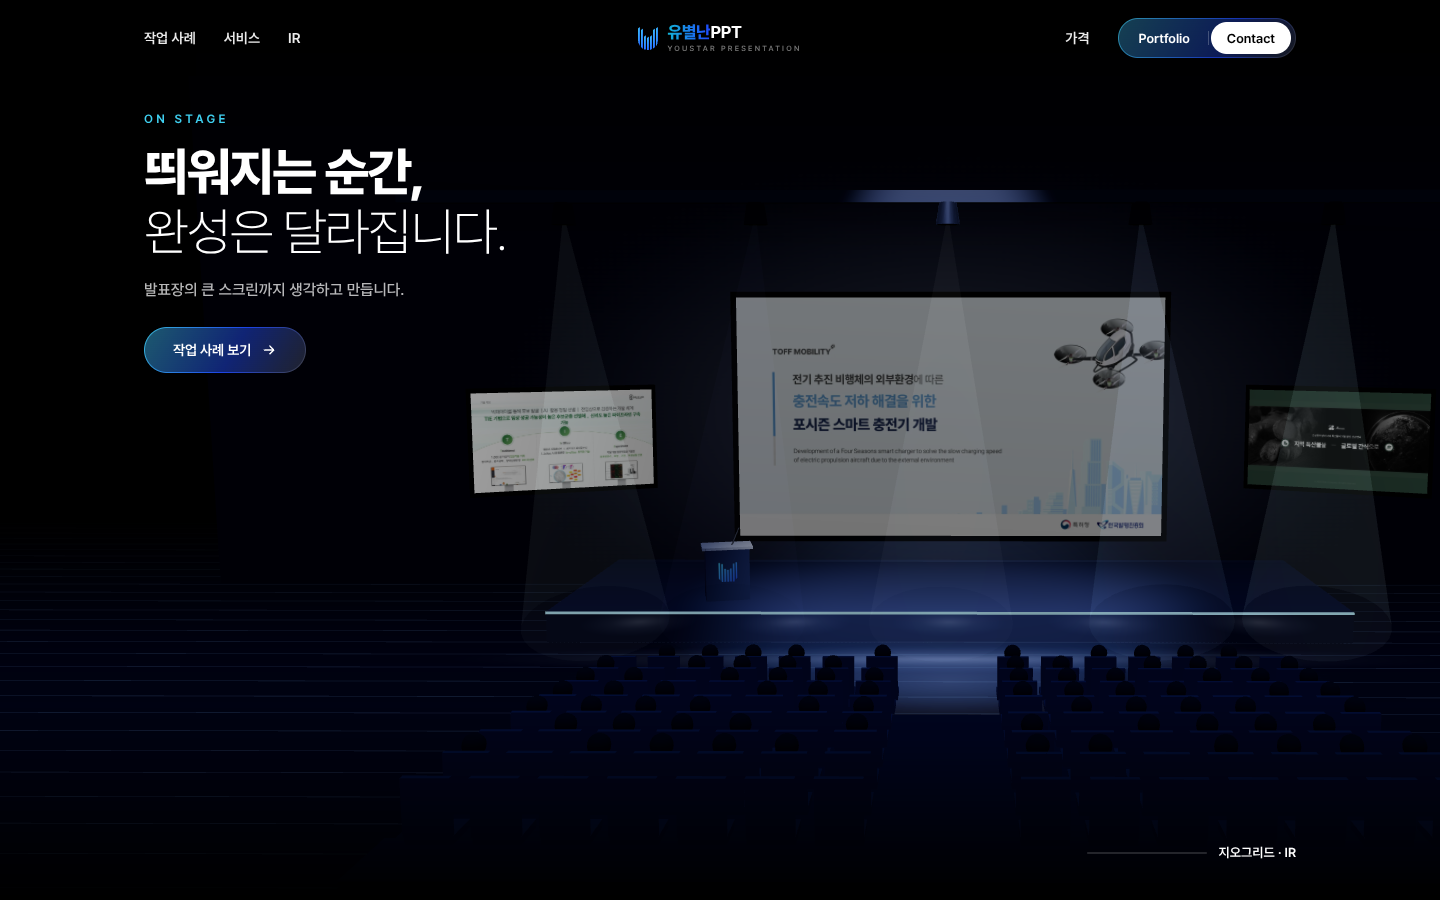
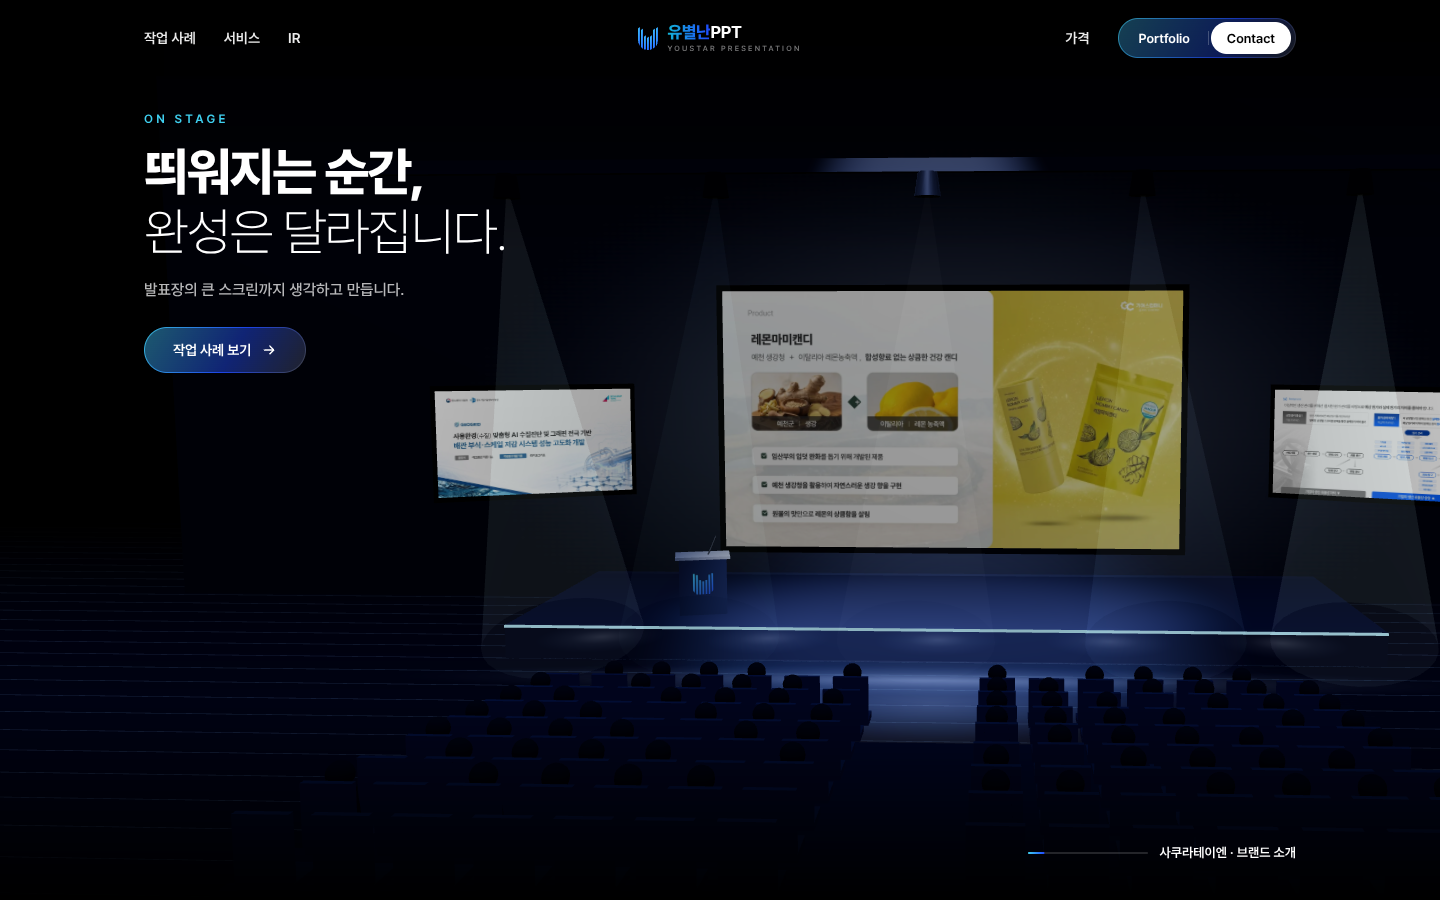
v2 stage: swap similar-looking slides for visually distinct ones
- 메이퍼런스·마인즈그라운드 제외, 토프(비행 사진)·기어스(노랑)·사쿠라(금갈색)·닥터비랩(초록)·팜킷(어두운 차트)·리필리·BLOS 순으로 색이 번갈아 보이게
- 보조 스크린: 지오그리드 · 인비고웍스
- 프로젝트 이름은 장표가 절반 넘어갔을 때 바뀌도록

Claude-Session: https://claude.ai/code/session_01NURhbB6Mq8R8WnaczfYj5a

diff --git a/redesign/v2/index.html b/redesign/v2/index.html
@@ -228,7 +228,7 @@ a{color:inherit;text-decoration:none}
   const cam = new T.PerspectiveCamera(40, 1, .1, 120);
   const SL = "assets/slides/";
   const ss = (x) => x * x * (3 - 2 * x);
-  const deck = [["mindsground", "마인즈그라운드 · IR"], ["refilly", "리필리 · IR"], ["toff", "토프모빌리티 · 사업계획"], ["geogrid", "지오그리드 · IR"], ["sakura", "사쿠라테이엔 · 브랜드 소개"], ["blos", "지오그리드 BLOS · 제품 소개"], ["mfference", "메이퍼런스 · 회사소개"]];
+  const deck = [["toff-flight", "토프모빌리티 · 사업계획"], ["gears-candy", "기어스컴퍼니 · 제품 소개"], ["sakura-brand", "사쿠라테이엔 · 브랜드 소개"], ["drbelab-cover", "닥터비랩 · IR"], ["farmkit-data", "팜킷 · IR"], ["refilly", "리필리 · IR"], ["blos", "지오그리드 BLOS · 제품 소개"]];
 
   // 빛: 아주 어두운 홀 + 무대를 비추는 차가운 조명
   S.add(new T.HemisphereLight(0x6f8fff, 0x020309, .28));
@@ -266,7 +266,7 @@ a{color:inherit;text-decoration:none}
     const f = new T.Mesh(new T.BoxGeometry(4.5, 2.65, .15), mat(0x03050b, .3, .7)); g.add(f);
     const s = new T.Mesh(new T.PlaneGeometry(4.3, 2.42), new T.MeshBasicMaterial({ map: t, toneMapped: false })); s.position.z = .08; g.add(s);
   }
-  side("drbelab", -9.6, .42); side("gears", 9.6, -.42);
+  side("geogrid", -9.6, .42); side("invigo", 9.6, -.42);
 
   // 연단 + 앞면 로고 빛
   const pod = new T.Group(); pod.position.set(-5.2, .7, -4.4); pod.rotation.y = .25; S.add(pod);
@@ -335,8 +335,8 @@ a{color:inherit;text-decoration:none}
     v.x += Math.sin(s * .22) * .3 + mx * 1.4; v.y += -my * .7;
     offset(kk); cam.position.copy(v); cam.lookAt(L);
     // 장표 넘기기: 3.4초마다, 0.9초 동안 겹쳐서
-    if (!reduce && fade >= 1 && t - lastSwap > 3400) { nxt = (cur + 1) % deck.length; fade = 0; lastSwap = t; nm.textContent = deck[nxt][1]; }
-    if (fade < 1) { fade = Math.min(1, (t - lastSwap) / 900); drawScreen(); if (fade >= 1) { cur = nxt; } }
+    if (!reduce && fade >= 1 && t - lastSwap > 3400) { nxt = (cur + 1) % deck.length; fade = 0; lastSwap = t; }
+    if (fade < 1) { fade = Math.min(1, (t - lastSwap) / 900); drawScreen(); if (fade > .5) nm.textContent = deck[nxt][1]; if (fade >= 1) { cur = nxt; } }
     beams.forEach((bm) => { bm.cone.material.opacity = .03 + .022 * Math.sin(s * .8 + bm.ph); bm.cone.rotation.z = Math.sin(s * .3 + bm.ph) * .12; });
     spill.material.opacity = .3 + .08 * Math.sin(s * 1.3);
     bar.style.setProperty("--k", kk.toFixed(3));
